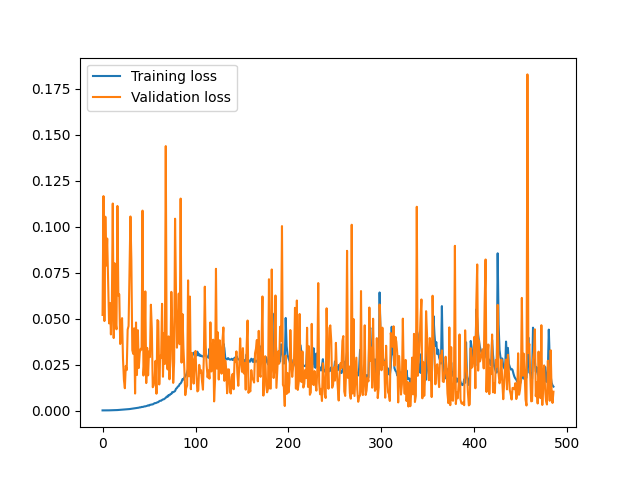
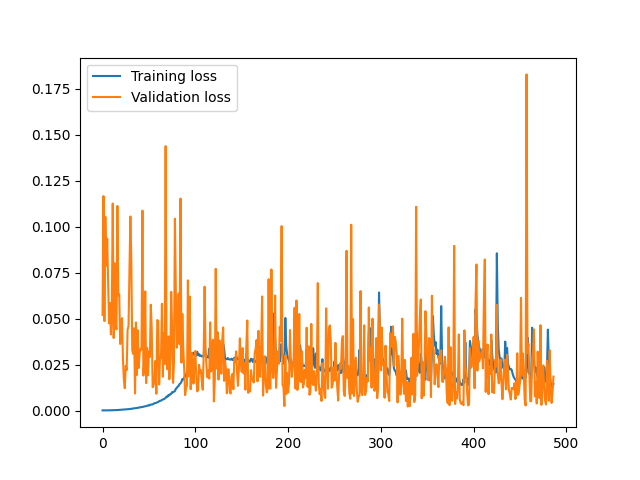
primo train con 100 frame

diff --git a/machine_learning/testing+error_script.py b/machine_learning/testing+error_script.py
@@ -1,0 +1,343 @@
+# <<< import external modules <<<
+from sys import path
+path.append('/home/fiorello/CRANE/')
+
+import numpy as np
+
+import torch
+import torch.nn as nn
+from torchvision import transforms
+
+import os
+
+import matplotlib.pyplot as plt
+
+from typing import Union
+
+from PIL import Image
+# === import external modules ===
+
+# <<< import CRANE modules <<<
+from src.classes import ConvGRU, ConvGRUClassifier
+from src.utils import *
+from src.dataloaders import TabulatedSeries
+# === import CRANE modules ===
+
+
+
+NUM_PNG : int = 100
+NUM_VTK : int = 0
+NUM_NPY : int = 100
+NUM_EVO : int = 25000
+
+# <<< SCRIPT VARIABLES <<<
+MODEL_PATH      : str   = '/home/fiorello/master_thesis/machine_learning/train/train_logs/test_lr_5e-5/model/epoch_480.pt' # model
+SEQUENCE_TABLE  : str   = '/data/fiorello/external_test_128_random/testing_set.txt'
+IMG_SIZE        : int   = 128 # resizing dimension of images in dataset
+OUTPUT_FOLDER   : str   = '/data/fiorello/external_test_128_random/test_lr_5e-5'#' # output folder name
+CUDA            : bool  = True # cuda control variable
+DELTA_PNG       : int   = 1  # output frequency for png. DO NOT SET TO < 1
+
+# === SCRIPT VARIABLES ===
+
+
+# <<< MODEL VARIABLES <<<
+MIN_SEQ         : int                   = 1
+HIDDEN_UNITS    : int                   = 2 # cambia
+INPUT_CHANNELS  : int                   = 1 
+OUTPUT_CHANNELS : int                   = 1
+HIDDEN_CHANNELS : int                   = 16 # cambia
+KERNEL_SIZE     : int                   = 5 # cambia
+PADDING_MODE    : str                   = 'circular'    # this is NOT to be modified
+SEPARABLE       : bool                  = False         # this is NOT to be modified
+BIAS            : bool                  = True          # modify ONLY IF you know what you are doing
+DIVERGENCE      : bool                  = True
+NUM_PARAMS      : int                   = 0
+DROPOUT         : bool                  = False
+DROPOUT_PROB    : Union[float, None]    = None
+# === MODEL VARIABLES ===
+
+
+class CustomNameSpace():
+    '''
+    This is a dummy class used to have the correct interface with PF.utils
+    '''
+    pass
+
+
+
+
+def load_sequences(
+        path        : str,
+        num_params  : int,
+        transforms  : Union[transforms.transforms.Compose, None]
+        ) -> tuple[ torch.Tensor, Union[list[float], None] ]:
+    '''
+    This iterator loads the sequence provided by path, apply transforms and returns a torch tensor object
+    '''
+
+    with open(path, 'r') as sequence_file:
+        lines = sequence_file.readlines()
+
+    for line in lines:
+        if(num_params==0):
+            snaps_paths = line.split()
+        else:
+            snaps_paths = line.split()[:-num_params] # need to remove last num_params values
+
+        # dealing with parameter part
+        if num_params == 0 or num_params is None:
+            params = None
+            print('params: ', params)
+        else:
+            params = torch.tensor( [[ float(val) for val in line.split()[-num_params:] ]] ).float()
+
+        # dealing with sequence part
+        sequence = []
+        for snap_path in snaps_paths:
+            if snap_path.endswith('.png'):
+                state = Image.open(snap_path).convert('L')
+                state = np.array(state)
+            elif snap_path.endswith('.npy'):
+                state = np.load(snap_path)
+            else:
+                raise ValueError(f'Extension {snap_path.split(".")[-1]} is not supported.')
+
+            state = torch.from_numpy(state).float()
+
+            while len(state.shape) < 4:
+                state = state.unsqueeze(0) # add dimensions if necessary
+
+            sequence.append(transforms(state))
+
+        sequence = torch.stack( sequence, dim=1 )
+
+
+        yield sequence, params
+
+
+def main() -> None:
+    '''
+    This is the main function entrypoint
+    '''
+
+    overwrite_key = None
+    if os.path.isdir(OUTPUT_FOLDER):
+        overwrite_key = input(f'Output folder "{OUTPUT_FOLDER}" already exists. "d" delete, "a" abort - "ENTER or other key to continue).\n').lower()
+
+    if overwrite_key == 'd':
+        os.system(f'rm -r {OUTPUT_FOLDER}') # cleaning old folder
+    elif overwrite_key == 'a':
+        exit()
+
+    if overwrite_key is None or overwrite_key == 'd':
+        os.mkdir(OUTPUT_FOLDER)
+
+    if CUDA:
+        if torch.cuda.is_available():
+            device = 'cuda'
+        else:
+            print('cuda seems not to be available, continuing using cpu')
+            device = 'cpu'
+    else:
+        device = 'cpu'
+
+    transform = transforms.Compose(
+            [
+                transforms.Grayscale( num_output_channels=1 ), # ensure that images have a single field channel
+                transforms.Resize( IMG_SIZE ), # resize image
+                ]
+        )
+
+    model = ConvGRU(
+            hidden_units        = HIDDEN_UNITS,
+            input_channels      = INPUT_CHANNELS,
+            output_channels     = OUTPUT_CHANNELS,
+            hidden_channels     = HIDDEN_CHANNELS,
+            kernel_size         = KERNEL_SIZE,
+            padding_mode        = PADDING_MODE,
+            separable           = SEPARABLE,
+            bias                = BIAS,
+            divergence          = DIVERGENCE,
+            num_params          = NUM_PARAMS,
+            dropout             = DROPOUT,
+            dropout_prob        = DROPOUT_PROB
+
+        )
+
+    # reload model
+    model.load_state_dict( torch.load(MODEL_PATH, map_location=device) )
+    model.eval() # better safe than sorry
+
+    model.to(device)
+    model.make_div_filters( torch.zeros(1, device=device ) )
+
+    sequences_iterator = load_sequences( SEQUENCE_TABLE, NUM_PARAMS, transform)
+
+    with open(SEQUENCE_TABLE, 'r') as sequence_file:
+                list_sequences = sequence_file.readlines()
+
+    jump = MIN_SEQ
+    num_params=0
+    countNPYout=0
+    countEVOout=0
+    countPNGout=0
+    countVTKout=0
+
+    file_MAE = open(f"{OUTPUT_FOLDER}/errors.txt", "w")
+    file_MAE.write("# 1: id | 2: maxMAE | 3: maxMSE | 4: overallMAE | 5: overallMSE\n")
+
+
+    with torch.no_grad():
+
+        loss_fn = nn.MSELoss()
+
+        for kk, (sequence, params) in enumerate(sequences_iterator):
+
+            model.zero_grad()
+
+            seq_name = list_sequences[kk].split()[0].split("/")[-2]
+            kk_path = f'{OUTPUT_FOLDER}/{seq_name}'
+
+#            kk_path = f'{OUTPUT_FOLDER}/{str(kk).zfill(4)}'
+            if os.path.isdir(kk_path):
+                print(kk_path + " already exists!")
+                pass
+
+            os.mkdir(kk_path)
+            os.symlink(list_sequences[kk].split()[0].replace(f'/{list_sequences[kk].split()[0].split("/")[-1]}',"")  , f'{kk_path}/true_sequence_npy', target_is_directory=True)
+
+
+            print(f'Predicting sequence {seq_name}...')
+
+            sequence    = sequence.to(device)
+            if params is not None:
+                params      = params.to(device)
+
+            initial_state = sequence[:,:jump,...]
+            target_sequence = sequence[:,jump:,...]
+
+            pred_sequence = model(
+                    initial_state,
+                    future = target_sequence.shape[1]-1,
+                    params = params,
+                    approx_inference = False
+                    )
+
+            pred_sequence = torch.cat( [initial_state, pred_sequence[:,jump-1:,...]], dim=1 ) # jump-1 since pred sequence is one off wrt true sequence (t=0 is t=1 in input!)
+
+#            mse = loss_fn(pred_sequence, sequence).cpu().numpy()
+#            mae = ( (pred_sequence-sequence).abs() ).mean().cpu().numpy()
+            mae=np.zeros(pred_sequence.shape[1])
+            mse=np.zeros(pred_sequence.shape[1])
+            if(countEVOout < NUM_EVO):
+                file_EVO = open(f"{kk_path}/evo.txt", "w")
+                file_EVO.write("# 1: MAE | 2: MSE | 3: cov_True | 4: cov_Pred | 5: min_True | 6: min_Pred | 7: max_True | 8: max_Pred\n")
+                for t in range(jump):
+                    true=sequence[:,t,...].cpu().numpy()
+                    avgT=true.mean()
+                    minT=true.min()
+                    maxT=true.max()
+                    file_EVO.write(f"nan \t nan \t {avgT} \t nan \t {minT} \t nan \t {maxT} \t nan \n")
+                countEVOout += 1
+
+            for t in range(jump,pred_sequence.shape[1]):
+                pred=pred_sequence[:,t,...].cpu().numpy()
+                true=sequence[:,t,...].cpu().numpy()
+                mae[t]=( np.abs(pred-true) ).mean()
+                mse[t]=( (pred-true)**2. ).mean()
+
+                if(countEVOout < NUM_EVO):
+                    avgP=pred.mean()
+                    minP=pred.min()
+                    maxP=pred.max()
+                    avgT=true.mean()
+                    minT=true.min()
+                    maxT=true.max()
+                    file_EVO.write(f"{mae[t]} \t  {mse[t]} \t {avgT} \t {avgP} \t {minT} \t {minP} \t {maxT} \t {maxP}\n")
+
+            file_MAE.write(f"{seq_name} {np.max(mae)} {np.max(mse)} {np.mean(mae)} {np.mean(mse)}\n")
+
+#            errors.append( loss_fn(pred_sequence, sequence).cpu() )
+            #errors.append( ((pred_sequence-sequence)**2).mean() )
+
+            
+            # save predicted sequence
+            if(countNPYout < NUM_NPY):
+                print('Saving npy output...')
+                os.mkdir(f'{kk_path}/pred_sequence_npy')
+                seq2npy( pred_sequence.cpu(), path=f'{kk_path}/pred_sequence_npy', fname="", nf=3 )
+                countNPYout += 1
+
+            if(countPNGout < NUM_PNG):
+#                os.mkdir(f'{kk_path}/true_sequence_npy')
+#                seq2npy( sequence.cpu(), path=f'{kk_path}/true_sequence_npy', fname="", nf=3 )
+#                os.mkdir(f'{kk_path}/diff_sequence_npy')   # Inserito da Matteo
+#                seq2npy( ( pred_sequence.cpu() - sequence.cpu() ) , path=f'{kk_path}/diff_sequence_npy', fname="", nf=3 )   # Inserito da Matteo (TOLTO abs!!!!)
+
+                print('Saving png output...')
+#               os.mkdir(f'{kk_path}/true_sequence_png')
+                os.mkdir(f'{kk_path}/pred_sequence_png')
+                os.mkdir(f'{kk_path}/diff_sequence_png')
+                
+#                args = CustomNameSpace()
+#                args.nproc = 4
+#                args.cmap = 'gray'
+#                args.paths = {"png" : f'{kk_path}/true_sequence_png'}
+#                args.vmin = 0.
+#                args.vmax = 1.
+#                seq2png_treaded( sequence[:,::DELTA_PNG,...].cpu(), name=f'snap', delta=DELTA_PNG, args=args)
+
+                args = CustomNameSpace()
+                args.nproc = 4
+                args.cmap = 'gray'
+                args.paths = {"png" : f'{kk_path}/pred_sequence_png'}
+                args.vmin = 0.
+                args.vmax = 1.
+                seq2png_treaded( pred_sequence[:,::DELTA_PNG,...].cpu(), name=f'snap', delta=DELTA_PNG, args=args )
+
+                args = CustomNameSpace()
+                args.nproc = 4
+                args.cmap = 'bwr'
+                args.clim = [-1., 1.]
+                args.vmin = -1.
+                args.vmax = 1.
+                args.paths = {"png" : f'{kk_path}/diff_sequence_png'}
+                seq2png_treaded( (pred_sequence[:,::DELTA_PNG,...].cpu()-sequence[:,::DELTA_PNG,...].cpu()), name=f'snap', delta=DELTA_PNG, args=args )      # TOLTO abs!!!!
+                countPNGout += 1
+
+            if(countVTKout < NUM_VTK):
+                print('Saving vtk output...')
+                os.mkdir(f'{kk_path}/true_sequence_vtk')
+                os.mkdir(f'{kk_path}/pred_sequence_vtk')
+                seq2vtk( sequence.cpu(), path=f'{kk_path}/true_sequence_vtk' )
+                seq2vtk( pred_sequence.cpu(), path=f'{kk_path}/pred_sequence_vtk' )
+                countVTKout += 1
+
+
+            print('DONE!')
+            print()
+            print()
+            print('='*30)
+
+            del pred_sequence
+            del sequence
+
+    #if isinstance(errors, list):
+    #    errors = torch.tensor(errors, device='cpu')
+    #    errors = errors.cpu().numpy()
+
+    #errors = np.array(errors)
+
+    file_path = open(OUTPUT_FOLDER + '/model_path.txt', 'a')    # Inserito da Matteo (serve per tenere traccia del modello utilizzato
+    print(MODEL_PATH, file=file_path)
+    file_path.close()
+
+
+    file_MAE.close()
+
+
+
+
+if __name__ == '__main__':
+    main()
